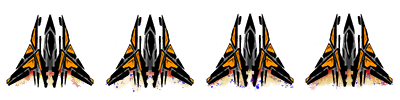
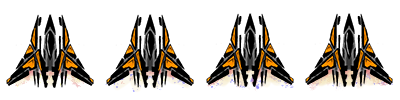
add the fire animation

diff --git a/js/Scene1.js b/js/Scene1.js
@@ -4,44 +4,59 @@ class Scene1 extends Phaser.Scene {
   }
 
   preload() {
+    //----------------------------------------------------------------------------//
+    // ---------------------load al the resourses befor start the game -----------//
+    //----------------------------------------------------------------------------//
+
+    //---------- load the background of the game stage ---------------------------//
     this.load.image('Background', '../imges/2ef.gif');
 
+    //---------- load the player fire-----------------------//
+    this.load.spritesheet('beam', '../imges/beam.png', {
+      frameWidth: 50,
+      frameHeight: 50
+    });
+
+    //--------------- load the player -----------------------//
     this.load.spritesheet('player', '../imges/player.png', {
       frameWidth: 100,
       frameHeight: 100
     });
 
+    //------------------- load the power up -------------------//
     this.load.spritesheet('power-up', '../imges/power-up.png', {
       frameWidth: 30,
       frameHeight: 30
     });
 
+    //------ load the ship explotion animation sheet ------//
     this.load.spritesheet('explosion', '../imges/explosion.png', {
       frameWidth: 40,
       frameHeight: 40
     });
 
+    //----------------- load the ship ------------------//
     this.load.spritesheet('ship', '../imges/ship41.png', {
       frameWidth: 100,
       frameHeight: 100
     });
 
+    //---------------- load the ship -------------------//
     this.load.spritesheet('ship', '../imges/ship41.png', {
       frameWidth: 100,
       frameHeight: 100
     });
 
+    //------------------ load the ship ------------------//
     this.load.spritesheet('ship1', '../imges/ship51.png', {
       frameWidth: 112,
       frameHeight: 100
     });
-
+    //------------------ load the ship ------------------//
     this.load.spritesheet('ship2', '../imges/ship61.png', {
       frameWidth: 112,
       frameHeight: 100
     });
-    // this.load.image('ship1', '../imges/ship51.png');
-    // this.load.image('ship2', '../imges/ship61.png');
   }
 
   create() {
@@ -49,8 +64,8 @@ class Scene1 extends Phaser.Scene {
 
     this.scene.start('playGame');
 
-    //-----------------------------------------------------//
-    //------- Create SpreadSheet Anim ---------------------//
+    //----------------------------------------------------//
+    //------- Create SpreadSheet Anim --------------------//
     //----------------------------------------------------//
     this.anims.create({
       key: 'expolode',
@@ -60,15 +75,15 @@ class Scene1 extends Phaser.Scene {
       hideOnComplete: true //--- disapear when finish --//
     });
 
-    //////////////////////////////////////////////////////////////////
+    //-------------------------------------------------------------///
     this.anims.create({
-      key: 'ship_anim', //--------animation name----------//
+      key: 'ship_anim', //--------------animation name--------------//
       frames: this.anims.generateFrameNumbers('ship'),
       frameRate: 20,
-      repeat: -1 //--------------repeation ---------------//
+      repeat: -1 //-----------------repeation ----------------------//
     });
 
-    ///////////////////////////////////////////////////////////////////
+    //-------------------------------------------------------------///
     this.anims.create({
       key: 'ship1_anim',
       frames: this.anims.generateFrameNumbers('ship1'),
@@ -76,7 +91,7 @@ class Scene1 extends Phaser.Scene {
       repeat: -1
     });
 
-    ///////////////////////////////////////////////////////////////////
+    //-------------------------------------------------------------///
     this.anims.create({
       key: 'ship2_anim',
       frames: this.anims.generateFrameNumbers('ship2'),
@@ -84,7 +99,7 @@ class Scene1 extends Phaser.Scene {
       repeat: -1
     });
 
-    ////////////////////////////////////////////////////////////////////
+    //-------------------------------------------------------------///
     this.anims.create({
       key: 'red',
       frames: this.anims.generateFrameNumbers('power-up', {
@@ -95,8 +110,7 @@ class Scene1 extends Phaser.Scene {
       repeat: -1
     });
 
-    ////////////////////////////////////////////////////////////////////
-
+    //-------------------------------------------------------------///
     this.anims.create({
       key: 'gray',
       frames: this.anims.generateFrameNumbers('power-up', {
@@ -107,6 +121,7 @@ class Scene1 extends Phaser.Scene {
       repeat: -1
     });
 
+    //-------------------------------------------------------------///
     this.anims.create({
       key: 'thrust',
       frames: this.anims.generateFrameNumbers('player'),

diff --git a/js/Scene2.js b/js/Scene2.js
@@ -139,6 +139,10 @@ class Scene2 extends Phaser.Scene {
     if (this.cursorKey.right.isDown) {
       this.player.setVelocityX(gameSettings.playerSpeed);
     }
+
+    if (Phaser.Input.Keyboard.JustDown(this.spacer)) {
+      console.log('fire');
+    }
   }
   update() {
     //--------------------------------------------------------------//

diff --git a/js/game.js b/js/game.js
@@ -15,5 +15,5 @@ var config = {
 var game = new this.Phaser.Game(config);
 
 var gameSettings = {
-  playerSpeed: 100
+  playerSpeed: 150
 };
